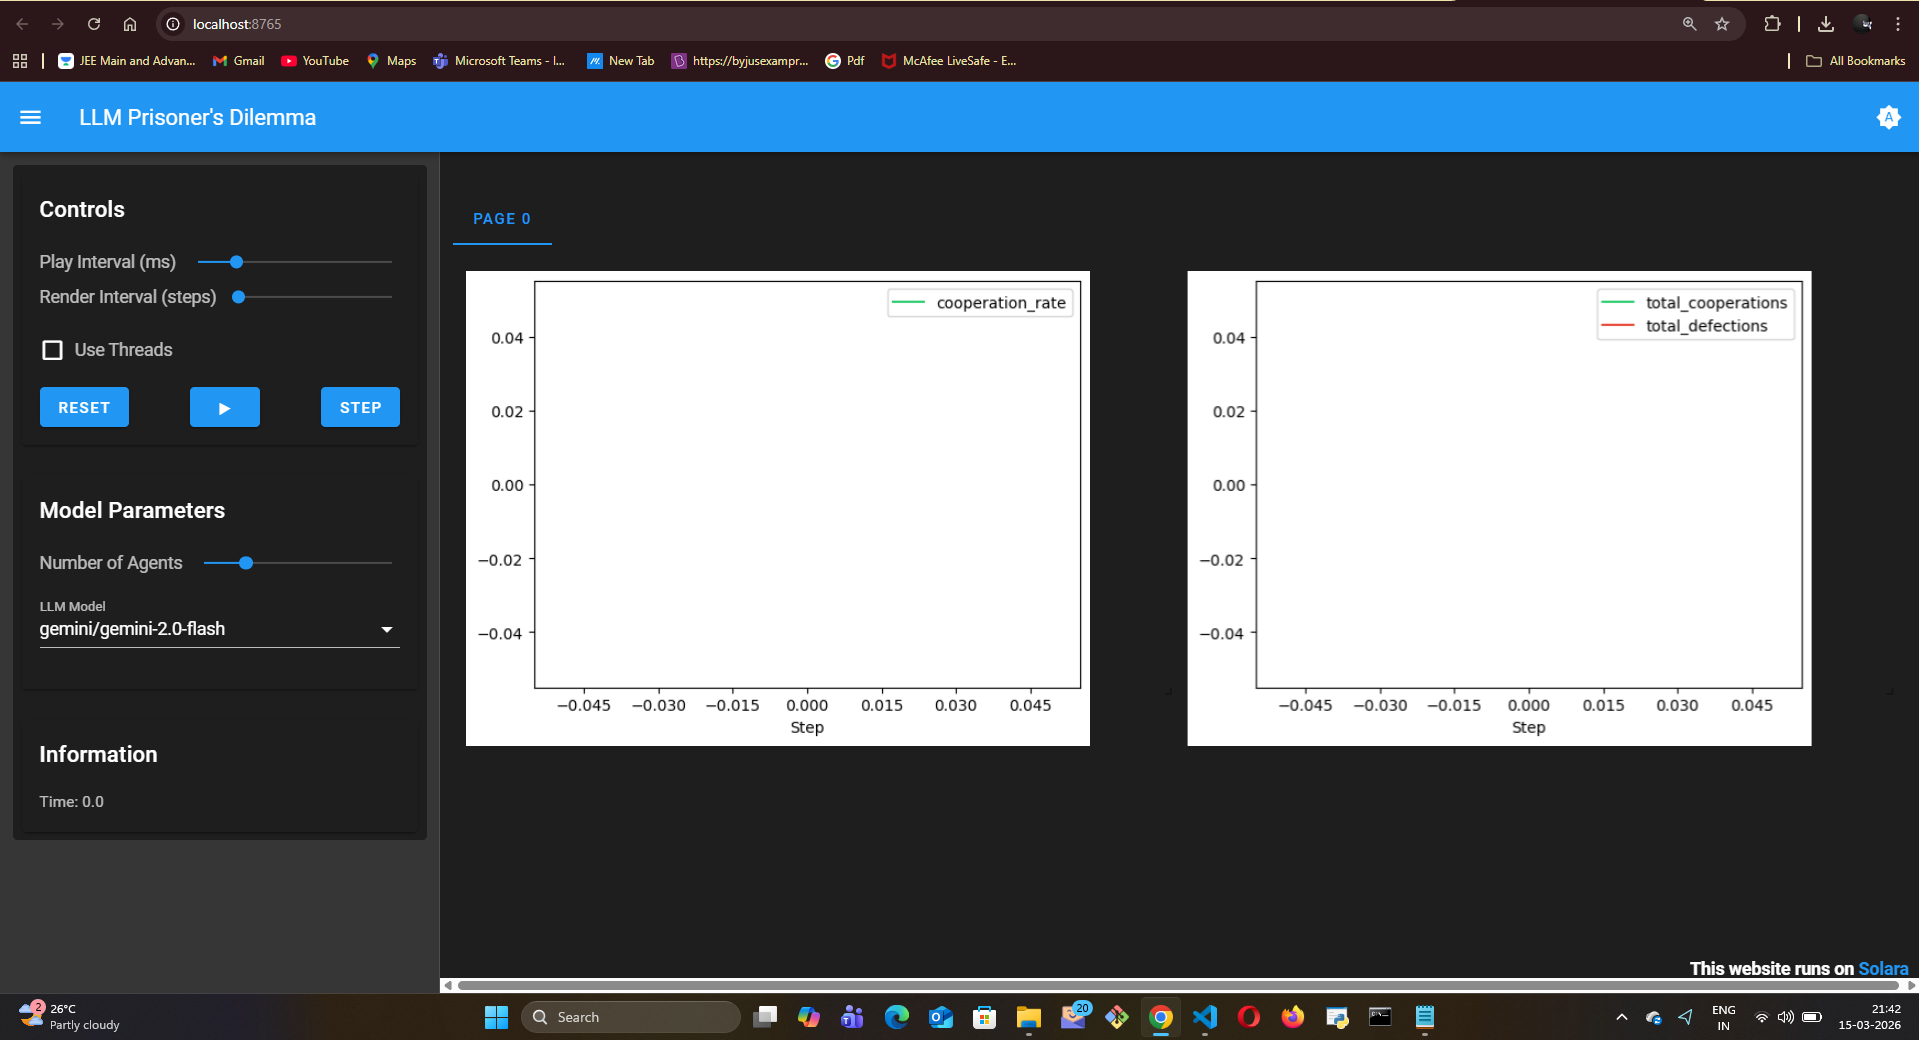
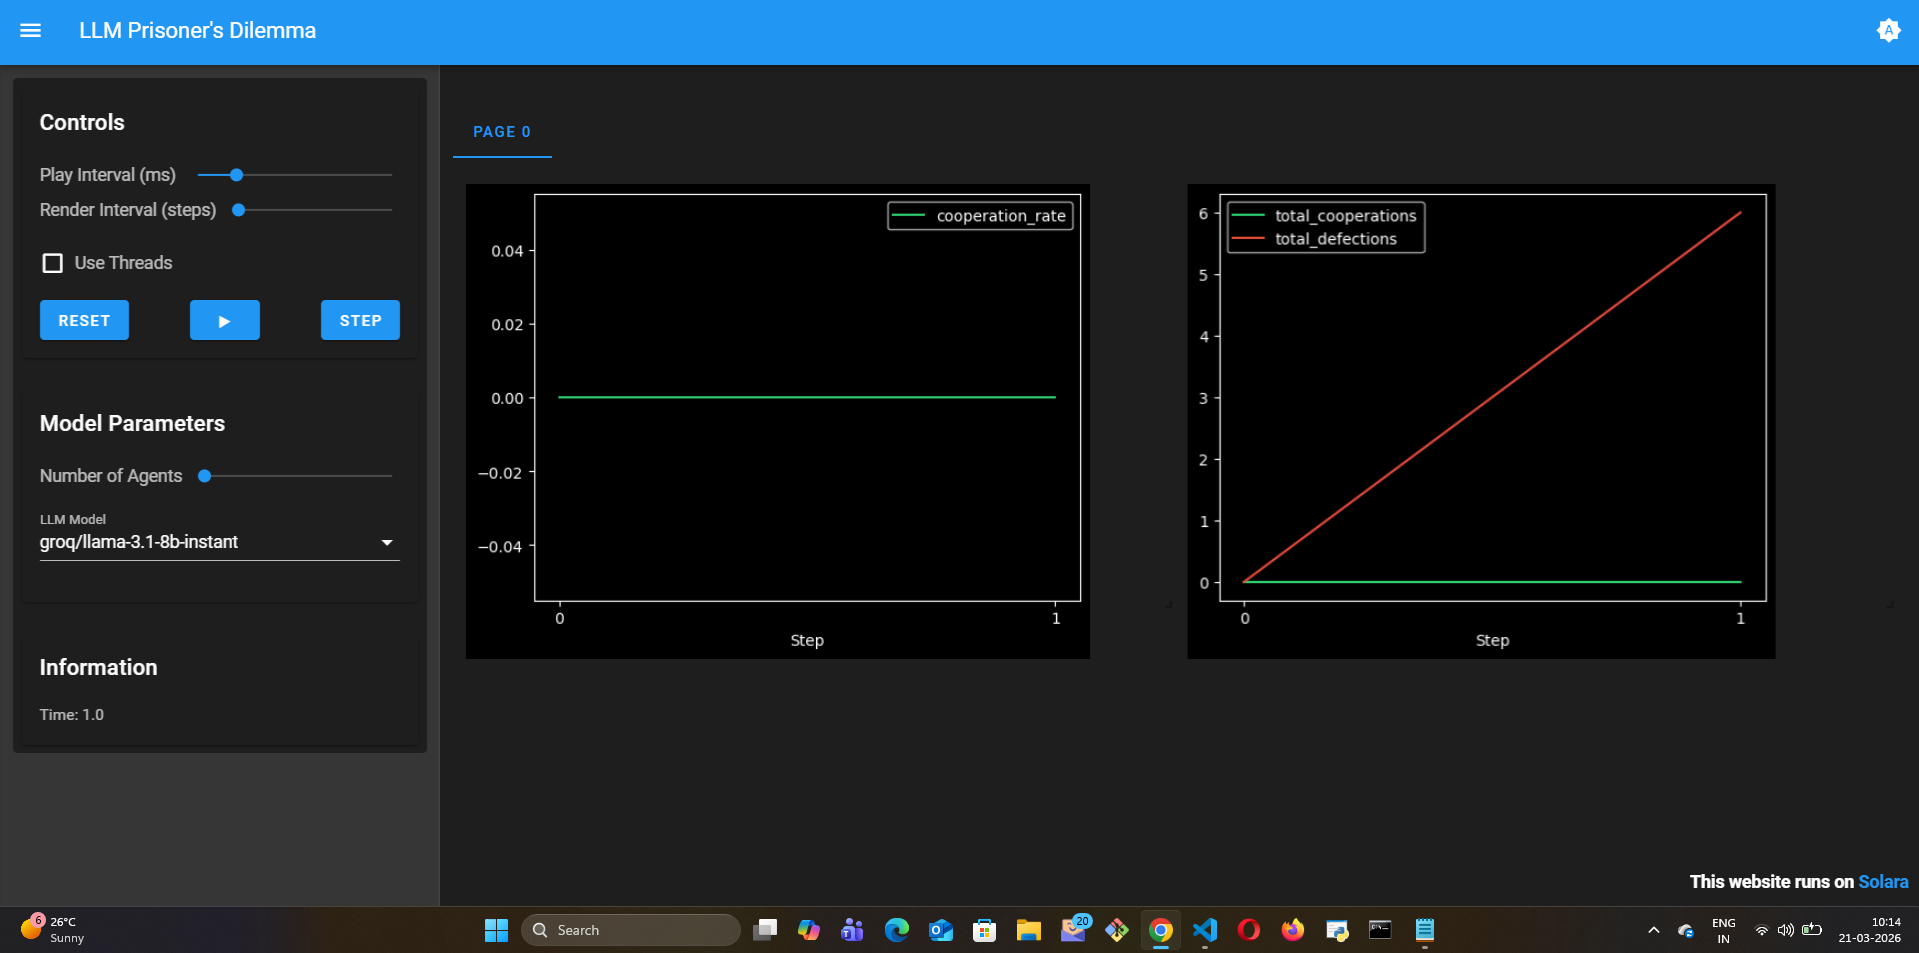
docs: add live run screenshots and expand README for prisoners dilemma
- Add prisoners_dilemma_dashboard.png (round 1: all defect — Nash equilibrium)
- Add prisoners_dilemma_initial.png (step 0 empty state)
- Expand README Visualization section: explain why 100% defection in
  round 1 is the correct game-theoretic outcome, not a bug

diff --git a/llm/llm_prisoners_dilemma/README.md b/llm/llm_prisoners_dilemma/README.md
@@ -33,11 +33,21 @@ This produces **emergent negotiation dynamics** — reputation building, trust s
 
 ## Visualization
 
-- 🟢 **Green agents** — cooperated last round
-- 🔴 **Red agents** — defected last round
-- **Agent size** — proportional to cumulative score
 - **Cooperation rate plot** — fraction of cooperative actions per round
 - **Cumulative plot** — total cooperations vs defections over time
+
+**Initial state (Step 0):**
+
+![Initial state — no history, agents have not yet played](prisoners_dilemma_initial.png)
+
+**After Round 1 of LLM reasoning:**
+
+![Round 1 — all agents defect (Nash equilibrium without trust history)](prisoners_dilemma_dashboard.png)
+
+Key emergent behavior observed:
+- **Round 1: 100% defection** — with no history, the LLM correctly identifies defection as the Nash equilibrium strategy. No agent has reason to trust a stranger.
+- This mirrors what game theory predicts for the one-shot Prisoner's Dilemma
+- In longer runs, agents with shared history begin signaling trustworthiness and cooperation emerges — a pattern no fixed strategy like tit-for-tat can replicate with genuine reasoning
 
 ## How to Run
 
